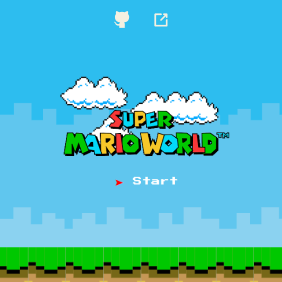
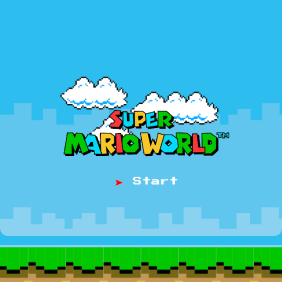
ajustes galeria portfolio

Changed region(s): [[0.0, 0.7943, 1.0, 0.8794], [0.539, 0.0284, 0.5957, 0.1135], [0.3972, 0.0284, 0.4539, 0.1135]]

diff --git a/script.js b/script.js
@@ -4,47 +4,142 @@ const jobs = [
     ferramentas: ["html | css | js | figma"],
     links: [
       {
-        href: "http://www.google.com",
+        href: "https://github.com/portellaluana/CheckSpeech-AI",
         img: "./assets/github-icon-light.png",
       },
       {
-        href: "http://www.google.com",
+        href: "https://portellaluana.github.io/CheckSpeech-AI/",
         img: "./assets/new-icon-light.png",
       },
     ],
-    backgroundHover: "./assets/portfolio-gallery-checkspeechai.png",
+    background: "./assets/portfolio-gallery-checkspeechai.png",
   },
-
-  {
-    name: "rachadinha",
-    ferramentas: ["html | css | js | figma"],
-    links: [
-      {
-        href: "http://www.google.com",
-        img: "./assets/github-icon-light.png",
-      },
-      {
-        href: "http://www.google.com",
-        img: "./assets/new-icon-light.png",
-      },
-    ],
-    backgroundHover: "./assets/portfolio-gallery-rachadinha.png",
-  },
-
   {
     name: "run<br>mario<br>run",
     ferramentas: ["html | css | js | figma"],
     links: [
       {
-        href: "http://www.google.com",
+        href: "https://github.com/portellaluana/RunMarioRun",
         img: "./assets/github-icon-light.png",
       },
       {
-        href: "http://www.google.com",
+        href: "https://portellaluana.github.io/RunMarioRun/",
         img: "./assets/new-icon-light.png",
       },
     ],
-    backgroundHover: "./assets/portfolio-gallery-mario.png",
+    background: "./assets/portfolio-gallery-runmariorun.png",
+  },
+
+  {
+    name: "rachadinha<br>divisor<br>despesa",
+    ferramentas: ["html | css | js | figma"],
+    links: [
+      {
+        href: "https://github.com/portellaluana/rachadinha",
+        img: "./assets/github-icon-light.png",
+      },
+      {
+        href: "https://portellaluana.github.io/rachadinha/",
+        img: "./assets/new-icon-light.png",
+      },
+    ],
+    background: "./assets/portfolio-gallery-rachadinha.png",
+  },
+
+  {
+    name: "frutali",
+    ferramentas: ["xd | photoshop"],
+    links: [
+      {
+        href: "https://www.behance.net/gallery/97630845/Design-de-Interfaces-com-foco-em-ux",
+        img: "./assets/behance-icon-light.png",
+      },
+    ],
+    background: "./assets/portfolio-gallery-frutali.png",
+  },
+
+  {
+    name: "astrobot<br>mobile<br>concept",
+    ferramentas: ["photoshop | indesign"],
+    links: [
+      {
+        href: "https://www.behance.net/gallery/125344383/Astro-Bot-Mobile-Concept",
+        img: "./assets/behance-icon-light.png",
+      },
+    ],
+    background: "./assets/portfolio-gallery-astrobot.png",
+  },
+
+  {
+    name: "editech<br>summit",
+    ferramentas: ["photoshop | indesign"],
+    links: [
+      {
+        href: "https://www.behance.net/gallery/115237535/edTech-summit",
+        img: "./assets/behance-icon-light.png",
+      },
+    ],
+    background: "./assets/portfolio-gallery-editech.png",
+  },
+
+  {
+    name: "miditec<br>acate",
+    ferramentas: ["photoshop | indesign"],
+    links: [
+      {
+        href: "https://www.behance.net/gallery/89334891/MIDITEC-AWARDS-2019",
+        img: "./assets/behance-icon-light.png",
+      },
+    ],
+    background: "./assets/portfolio-gallery-miditec.png",
+  },
+
+  {
+    name: "startlab<br>acate",
+    ferramentas: ["photoshop | indesign"],
+    links: [
+      {
+        href: "https://www.behance.net/gallery/89268957/StartLab-ACATE",
+        img: "./assets/behance-icon-light.png",
+      },
+    ],
+    background: "./assets/portfolio-gallery-startlab.png",
+  },
+
+  {
+    name: "acate",
+    ferramentas: ["photoshop | indesign"],
+    links: [
+      {
+        href: "https://www.behance.net/gallery/97623727/Relatorio-de-atividades-ACATE",
+        img: "./assets/behance-icon-dark.png",
+      },
+    ],
+    background: "./assets/portfolio-gallery-acate.png",
+  },
+
+  {
+    name: "rede<br>inovação<br>floripa",
+    ferramentas: ["photoshop | indesign"],
+    links: [
+      {
+        href: "https://www.behance.net/gallery/77956463/Rede-de-Inovacao",
+        img: "./assets/behance-icon-dark.png",
+      },
+    ],
+    background: "./assets/portfolio-gallery-redeinocacao.png",
+  },
+
+  {
+    name: "hempness",
+    ferramentas: ["photoshop | indesign"],
+    links: [
+      {
+        href: "https://www.behance.net/gallery/56335477/Hempness-Camisetas",
+        img: "./assets/behance-icon-light.png",
+      },
+    ],
+    background: "./assets/portfolio-gallery-hempness.png",
   },
 ];
 
@@ -52,6 +147,8 @@ const ul = document.querySelector(".portfolio-itens");
 
 for (i = 0; i <= jobs.length - 1; i++) {
   let li = document.createElement("li");
+  li.classList.add("item-li");
+  li.style.backgroundColor = "black";
 
   let div = document.createElement("div");
   div.classList.add("icons");
@@ -72,22 +169,32 @@ for (i = 0; i <= jobs.length - 1; i++) {
   ferramentas.classList.add("ferramentas");
   ferramentas.innerHTML = jobs[i].ferramentas;
 
-  link.appendChild(imgLink);
   div.appendChild(link);
   li.appendChild(div);
   li.appendChild(name);
   li.appendChild(ferramentas);
   ul.appendChild(li);
+
+  li.paramBackground = jobs[i].background;
+  li.paramName = name;
+  li.paramFerramentas = ferramentas;
+  li.addEventListener("mouseover", mouseOverEvent);
+  li.addEventListener("mouseout", mouseOutEvent);
 }
 
-/*
-<li>
-    <div class="icons">
-        <a class="link" href=""><img src="./assets/github-icon-light.png" alt=""></a>
-        <a class="link" href=""><img src="./assets/new-icon-light.png" alt=""></a>
-    </div>
-    <h2 class="name">Speech<br>ai</h2>
-    <p class="ferramentas">html | css</p>
-</li>*/
+function mouseOverEvent(evt) {
+  evt.currentTarget.style.backgroundImage =
+    "url(" + evt.currentTarget.paramBackground + ")";
+  evt.currentTarget.style.backgroundColor = "";
+  evt.currentTarget.paramName.style.display = "none";
+  evt.currentTarget.paramFerramentas.style.display = "none";
+}
+function mouseOutEvent(evt) {
+  console.log("mouseOutEvent");
+  evt.currentTarget.style.backgroundColor = "black";
+  evt.currentTarget.style.backgroundImage = "";
+  evt.currentTarget.paramName.style.display = "";
+  evt.currentTarget.paramFerramentas.style.display = "";
+}
 
 new ClipboardJS(".clipboard");

diff --git a/index.html b/index.html
@@ -15,13 +15,10 @@
     <header>
         <div class="header-bg">
             <div class="container-cabecalho">
-                <img class="luana" src="./assets/luana..svg" alt="luana">
                 <div class="redes-sociais">
                     <a href="https://github.com/portellaluana" target="_blank"><img src="./assets/github-icon-light.png" alt="github"></a>
                     <a href="https://www.linkedin.com/in/luana-portella/" target="_blank"><img src="./assets/linkedin-icon-light.png" alt="linkedin"></a>
                     <a href="https://www.behance.net/luanaporte92e8" target="_blank"><img src="./assets/behance-icon-light.png" alt="behance"></a>
-
-
                 </div>
             </div>
         </div>
@@ -31,7 +28,7 @@
                 <h3>hi there, i’m</h3>
                 <h1>luana</h1>
                 <h3>designer && front-end developer</h3>
-                <p>I’m a design minded front-end developer. From Florianópolis, Brazil.</p>
+                <p>From Florianópolis, Brazil.</p>
             </div>
             <img src="./assets/design-code-luana.png" alt="">
         </div>
@@ -46,14 +43,14 @@
             <div>
                 <ul class="portfolio-itens">
 
-                    <li class="itens-li">
+                    <!-- <li id="itens-li">
                         <div class="icons" class="links">
                             <a class="link" href="http://www.google.com"><img src="./assets/github-icon-light.png" alt=""></a>
                             <a class="link" href=""><img src="./assets/new-icon-light.png" alt=""></a>
                         </div>
                         <h2 class="name">lalalala</h2>
                         <p class="ferramentas">html | css</p>
-                    </li>
+                    </li> -->
 
                 </ul>
             </div>

diff --git a/style.css b/style.css
@@ -50,12 +50,13 @@ header .redes-sociais img {
   width: 100%;
   position: fixed;
   background-color: var(--dark-color);
+  z-index: 2;
 }
 
 .container-cabecalho {
   display: flex;
   flex-wrap: wrap;
-  justify-content: space-between;
+  justify-content: center;
   padding: 1rem;
   padding-bottom: 1rem;
   align-items: center;
@@ -107,16 +108,15 @@ ul {
   display: flex;
   text-decoration: none;
   list-style: none;
-  justify-content: space-between;
   align-items: center;
+  gap: 2rem;
+  padding-top: 3rem;
+  box-sizing: border-box;
 }
 
 li {
   display: grid;
   align-content: space-between;
-  margin-top: 3rem;
-  margin-bottom: 3rem;
-  background-color: black;
   border-radius: 0.5rem;
   height: 17rem;
   width: 17rem;
@@ -125,8 +125,7 @@ li {
 }
 
 li:hover {
-  /* background-image: url(./assets/portfolio-gallery-checkspeechai.png); */
-  transform: scale(1.01);
+  transform: scale(1.1);
 }
 
 li .icons {
@@ -141,9 +140,10 @@ li img {
 li p {
   letter-spacing: 0.1rem;
   text-transform: uppercase;
-  font-weight: 600;
+  font-weight: 400;
   display: flex;
   justify-content: center;
+  margin-bottom: 1rem;
 }
 
 li h2 {
@@ -155,10 +155,11 @@ li h2 {
 }
 
 footer {
+  padding-top: 3rem;
   display: flex;
   align-items: center;
   justify-content: center;
-  margin-bottom: 1rem;
+  margin-bottom: 2rem;
 }
 
 footer img {
